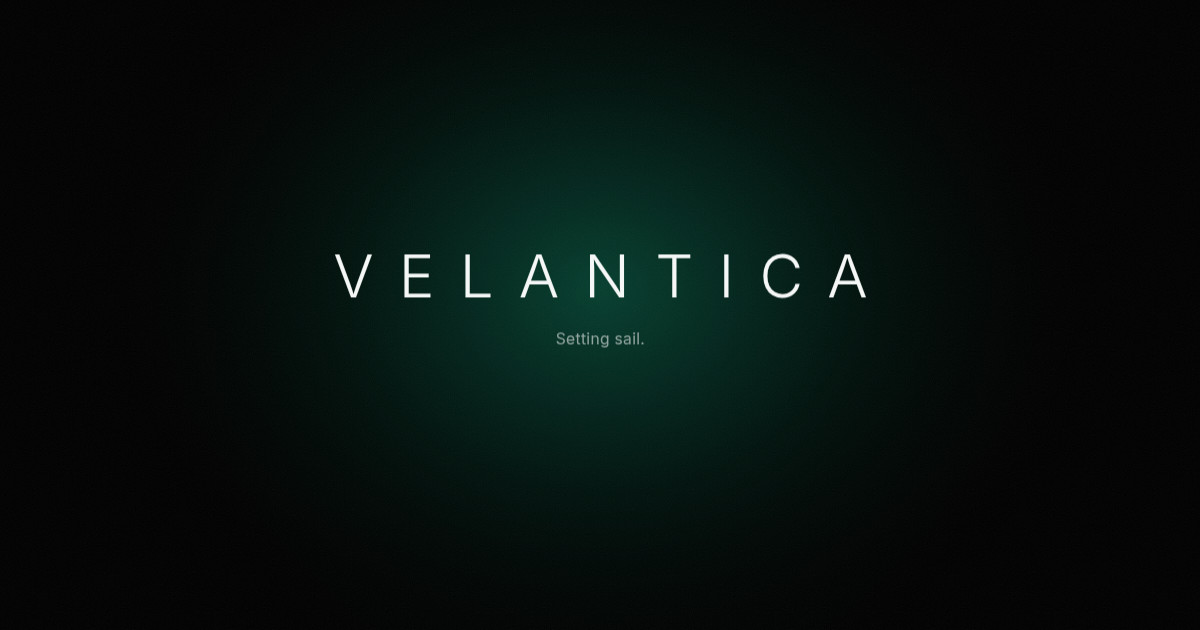
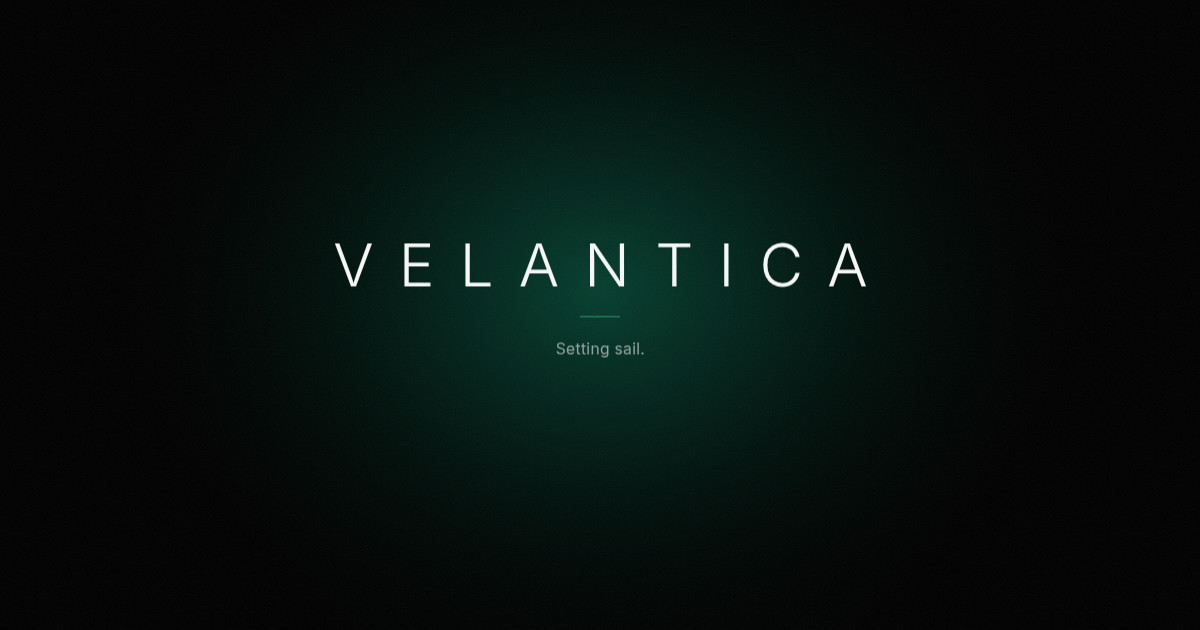
Add a short emerald rule between wordmark and line
Draws itself in between the two fades. Lockup spacing tightened.

diff --git a/index.html b/index.html
@@ -136,7 +136,7 @@
       display: flex;
       flex-direction: column;
       align-items: center;
-      gap: clamp(1rem, 2vw, 2.25rem);
+      gap: clamp(0.85rem, 1.5vw, 1.5rem);
       padding: max(2rem, env(safe-area-inset-top)) max(2rem, env(safe-area-inset-right)) max(2rem, env(safe-area-inset-bottom)) max(2rem, env(safe-area-inset-left));
       text-align: center;
       transform: translateY(-3vh);
@@ -164,7 +164,21 @@
       letter-spacing: 0.02em;
       color: var(--ink-muted);
       opacity: 0;
-      animation: rise 1.4s cubic-bezier(.2,.7,.2,1) 0.6s forwards;
+      animation: rise 1.4s cubic-bezier(.2,.7,.2,1) 0.8s forwards;
+    }
+
+    .rule {
+      width: 2.5rem;
+      height: 1px;
+      margin: 0.25rem 0;
+      background: rgba(var(--mint), 0.6);
+      transform: scaleX(0);
+      animation: draw 1.2s cubic-bezier(.2,.7,.2,1) 0.55s forwards;
+    }
+
+    @keyframes draw {
+      from { transform: scaleX(0); }
+      to   { transform: scaleX(1); }
     }
 
     @keyframes rise {
@@ -185,7 +199,7 @@
     @media (prefers-reduced-motion: reduce) {
       .field, main { animation: none; }
       .field { opacity: 1; }
-      h1, p { animation: none; opacity: 1; transform: none; }
+      h1, p, .rule { animation: none; opacity: 1; transform: none; }
     }
 
     @media (max-width: 480px) {
@@ -200,6 +214,7 @@
 
   <main>
     <h1>Velantica</h1>
+    <div class="rule" aria-hidden="true"></div>
     <p>Setting sail.</p>
   </main>
 
